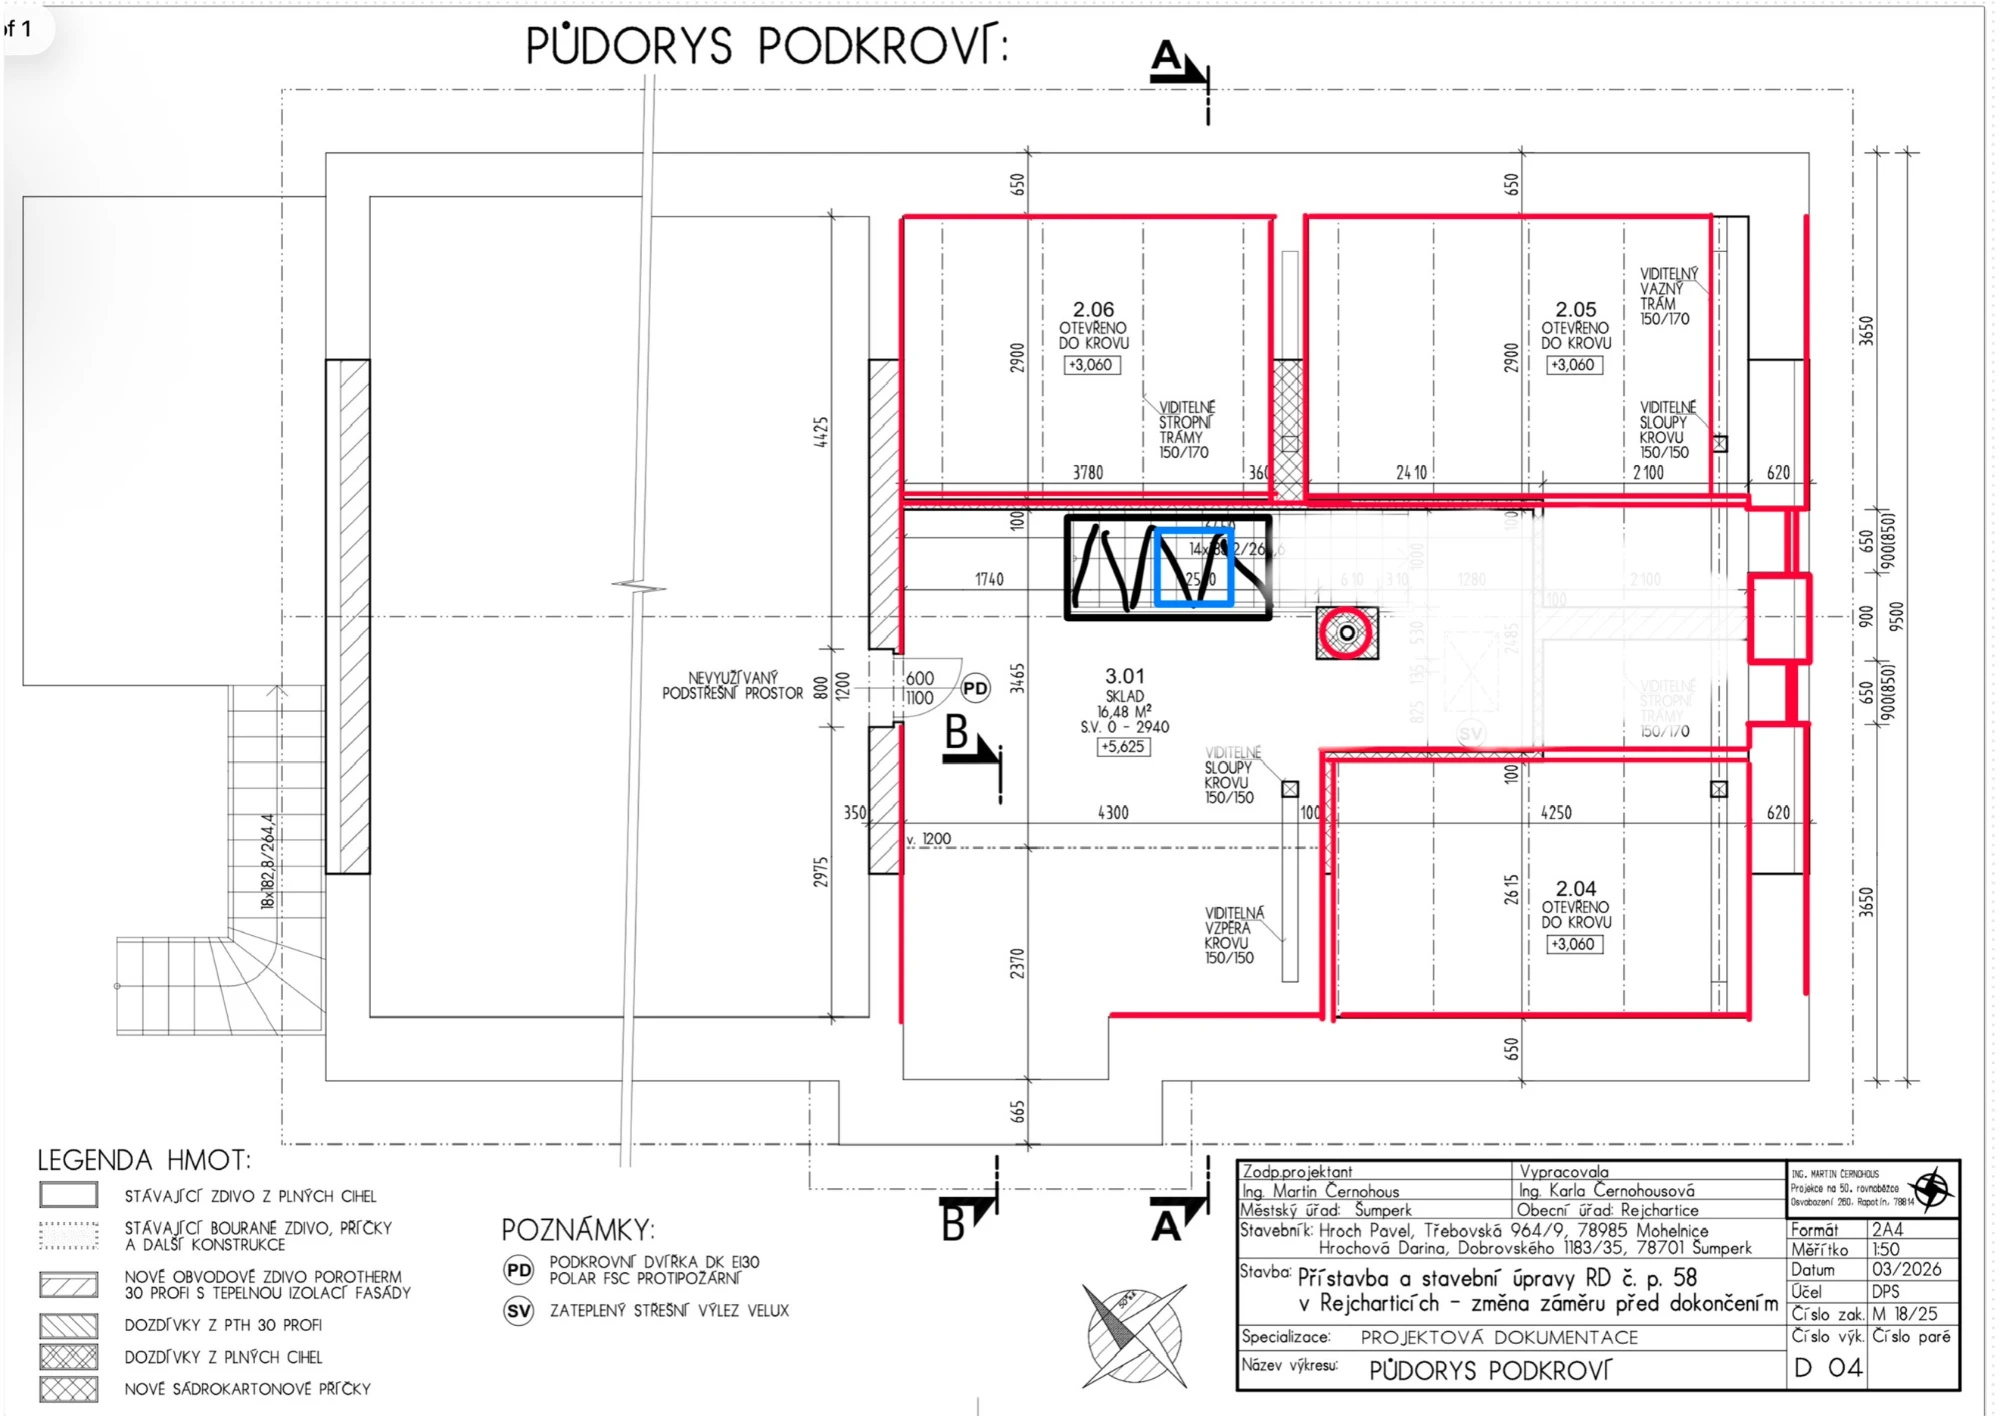
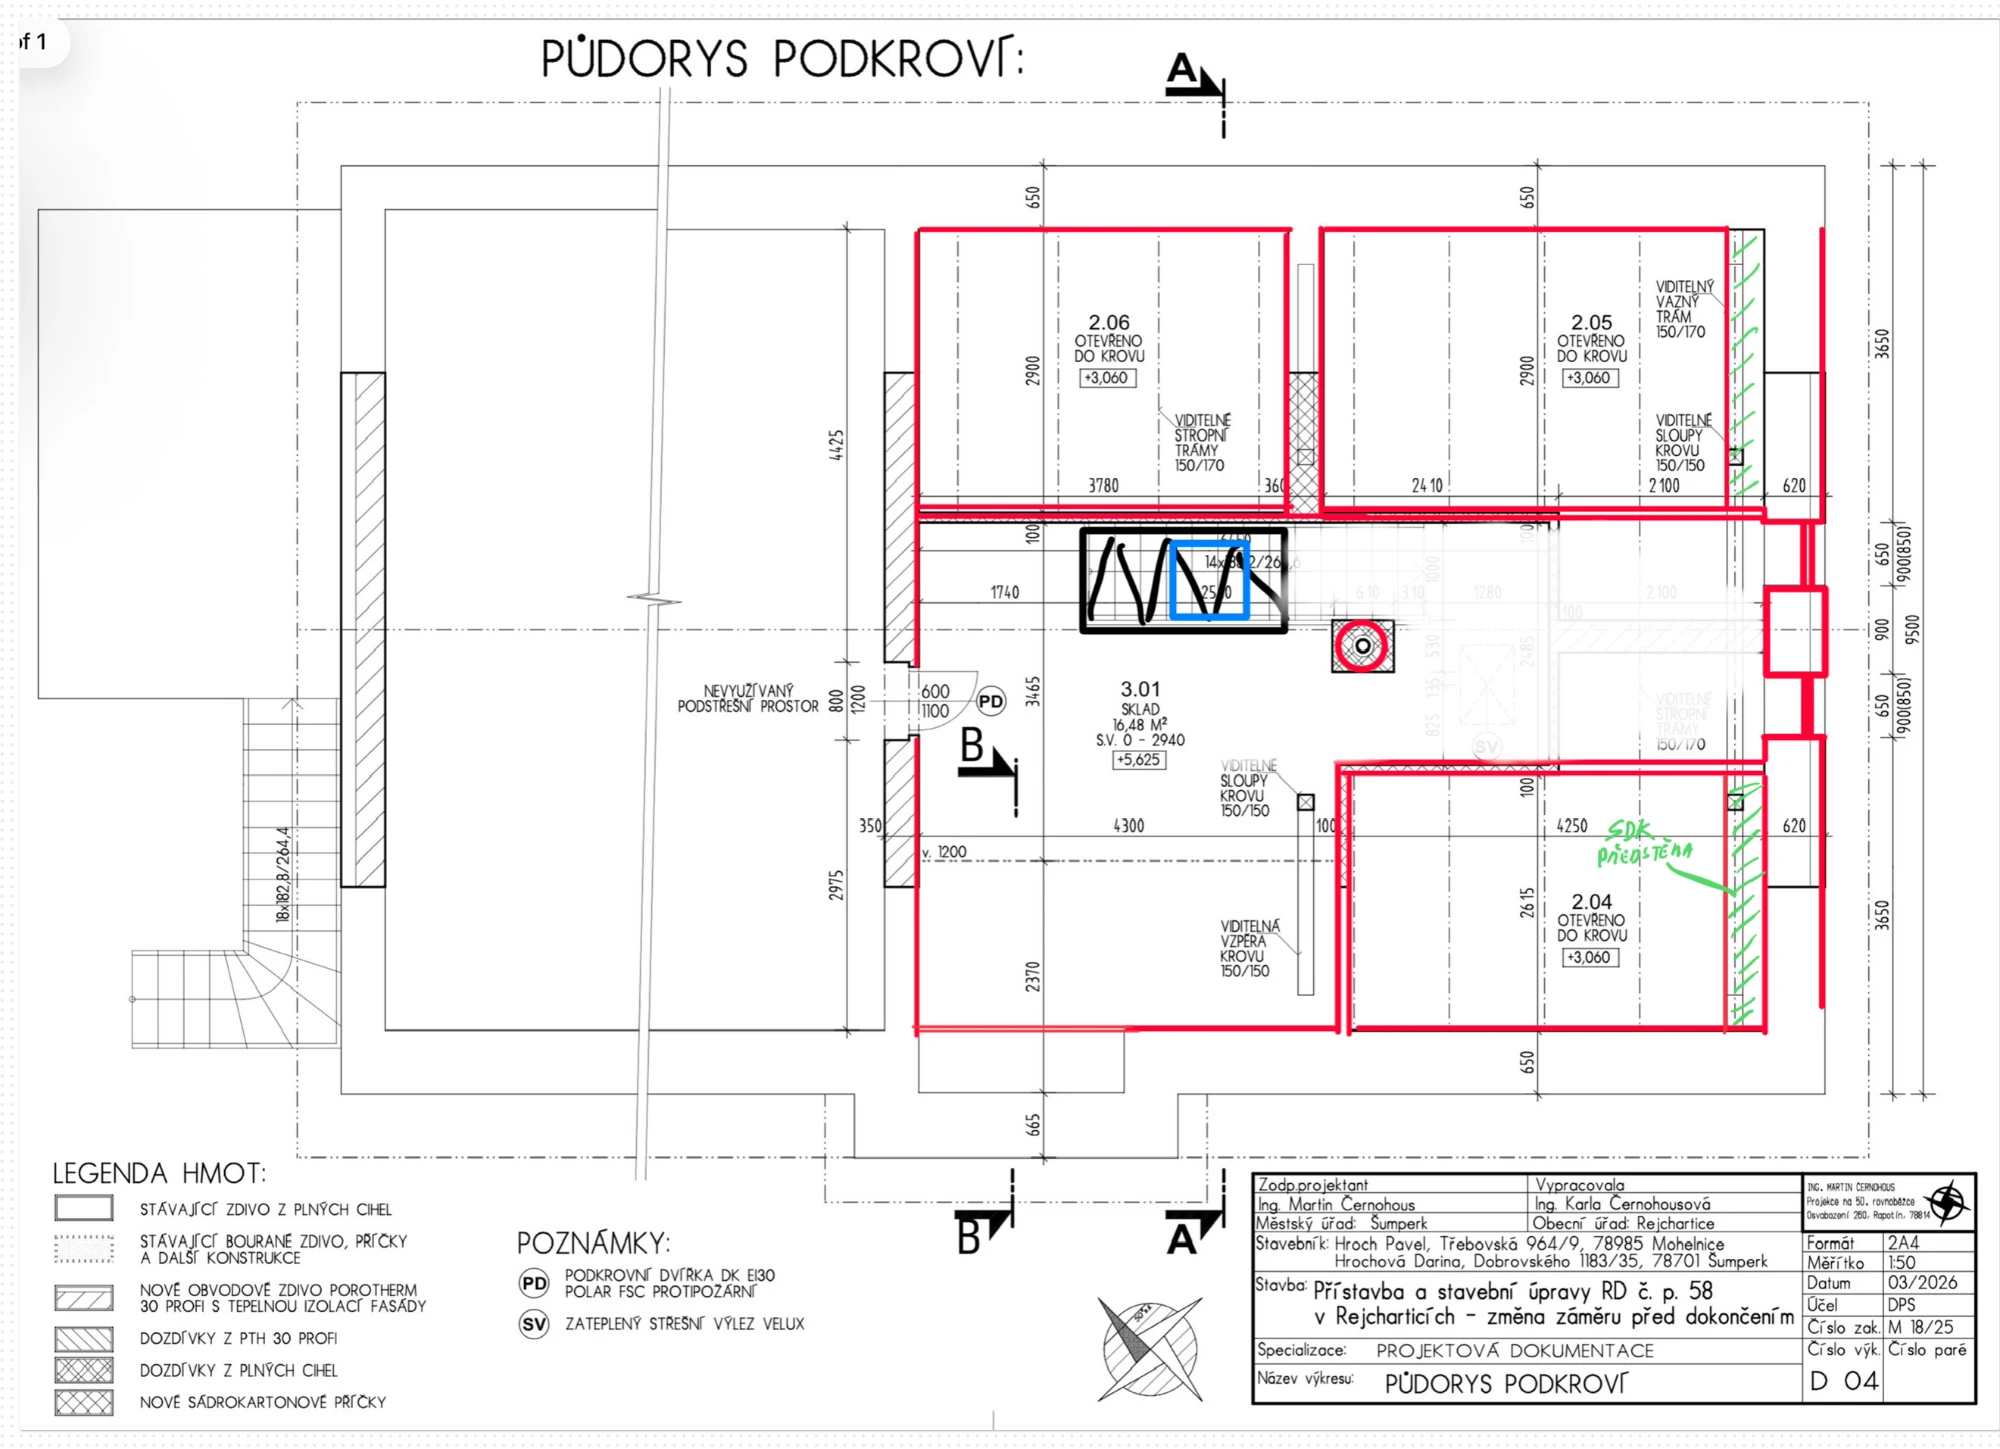
Půdorysy úpravy: nový obrázek podkroví

diff --git a/pudorysy-upravy/index.html b/pudorysy-upravy/index.html
@@ -70,7 +70,7 @@
   <section class="plan">
     <h2 class="top-title">Půdorys podkroví</h2>
     <div class="plan-card">
-      <img src="img/pudorys-podkrovi.webp?v=1" alt="Půdorys podkroví s úpravami" data-caption="Půdorys podkroví" />
+      <img src="img/pudorys-podkrovi.webp?v=2" alt="Půdorys podkroví s úpravami" data-caption="Půdorys podkroví" />
     </div>
   </section>
 </main>

diff --git a/CLAUDE.md b/CLAUDE.md
@@ -527,3 +527,4 @@ tagem, který CORS omezení nepodléhá.
 - 2026-11-23 — Půdorysy úpravy: přidán Půdorys podkroví (pod 2.NP).
 - 2026-11-23 — Půdorysy úpravy: Půdorys 2.NP a 2.NP vizualizace vedle sebe (půdorys vlevo, `.plan-row`, pod 900 px pod sebou).
 - 2026-11-23 — Půdorysy úpravy: vyměněn obrázek Půdorys 1.NP (`img/pudorys-1np.webp`, `?v=2` kvůli cache).
+- 2026-11-23 — Půdorysy úpravy: vyměněn obrázek Půdorys podkroví (`img/pudorys-podkrovi.webp`, `?v=2` kvůli cache).
